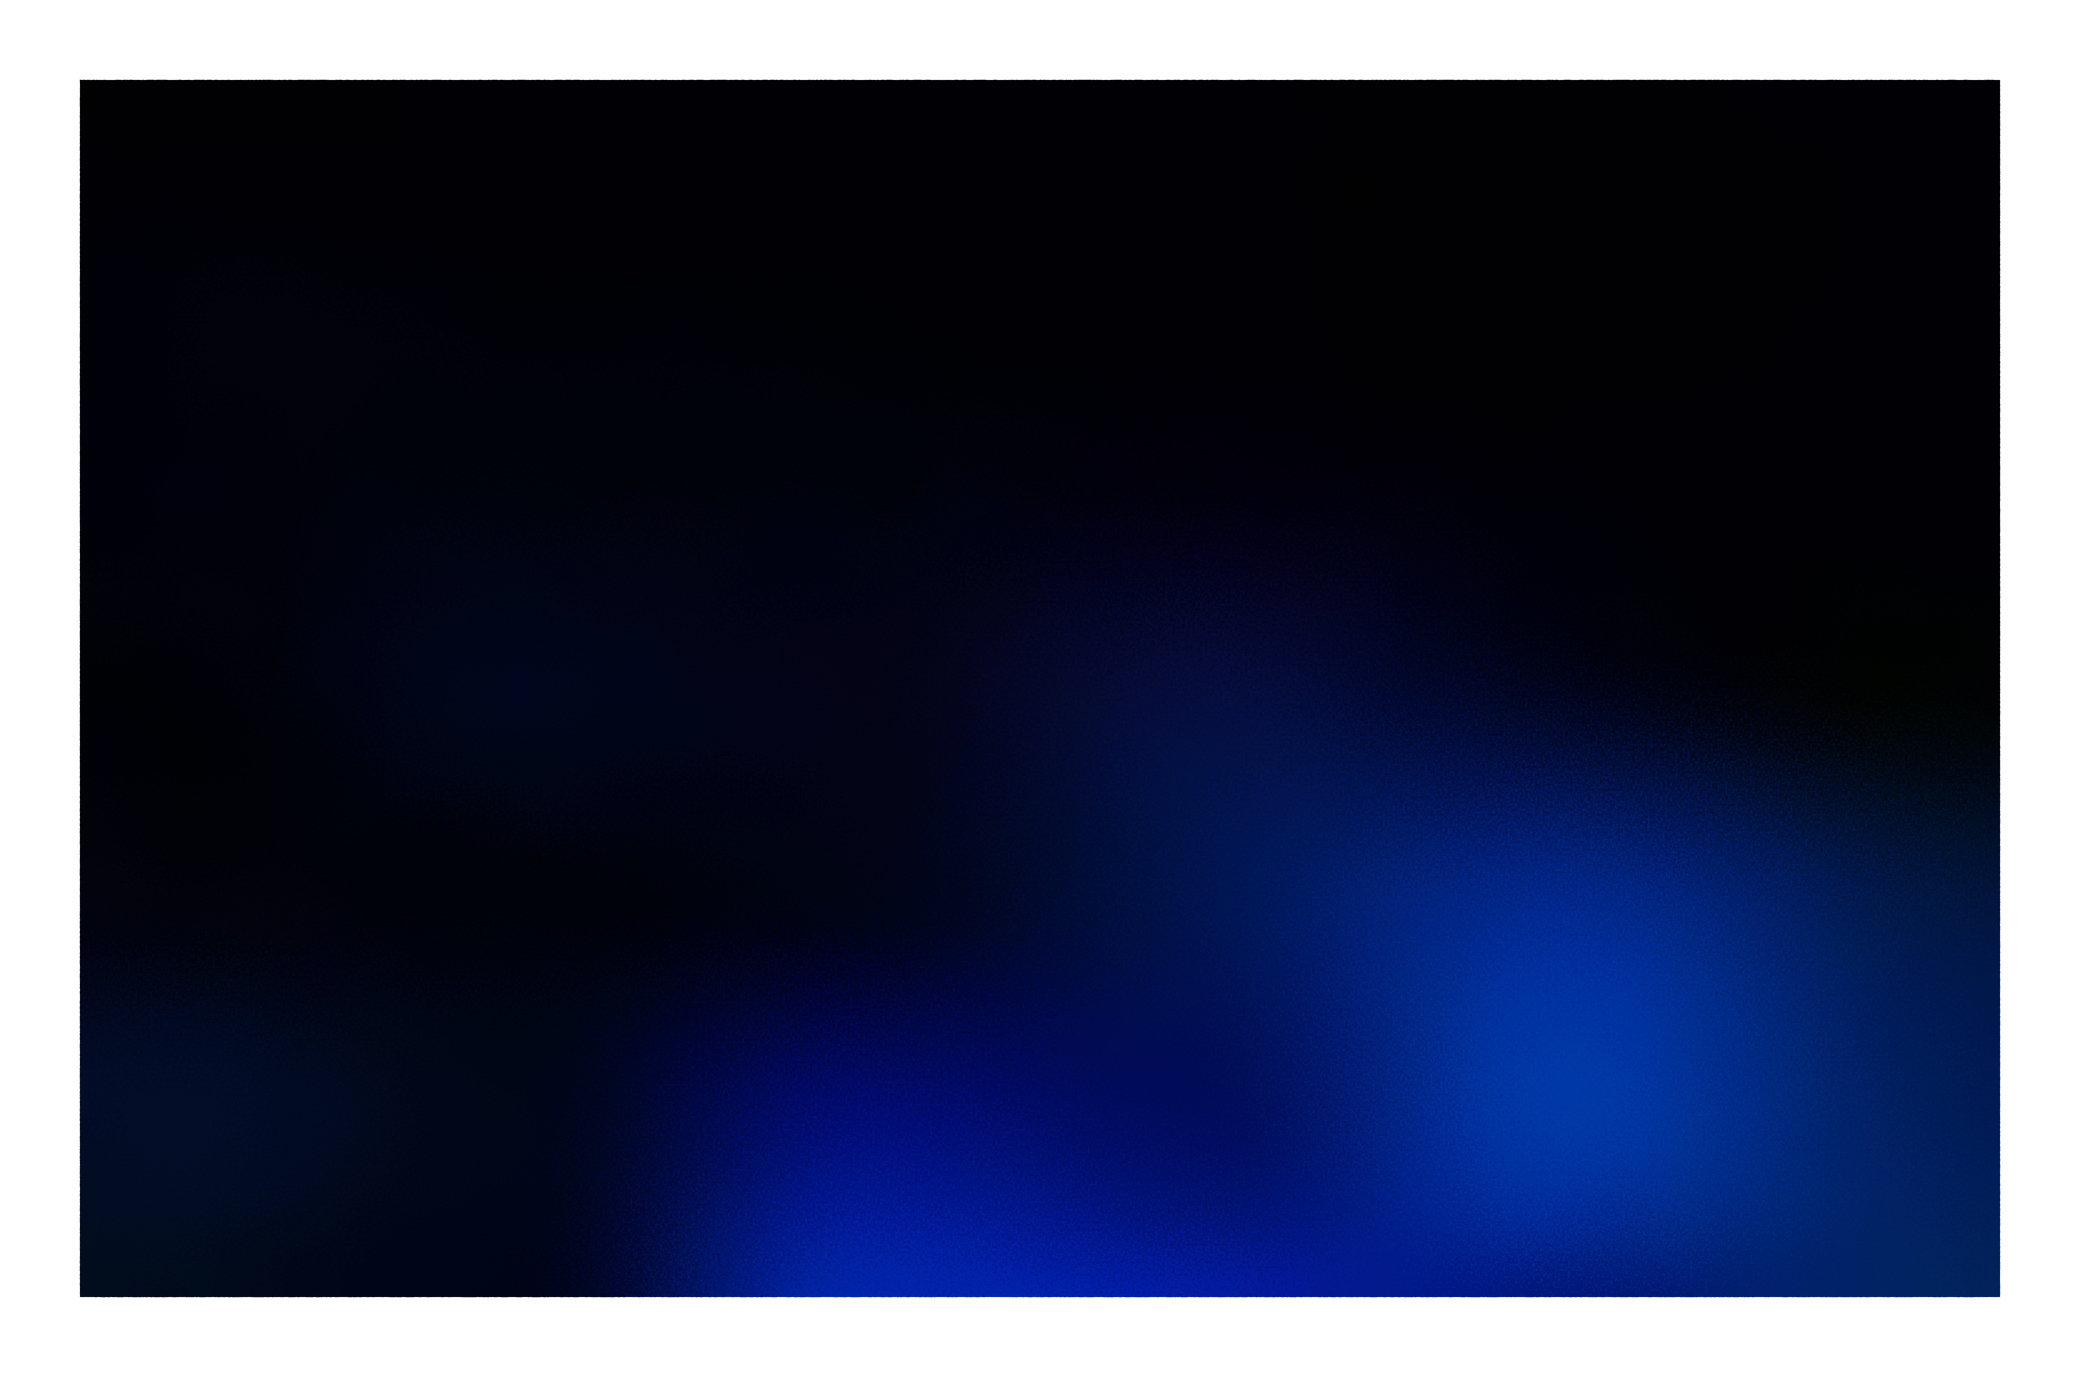
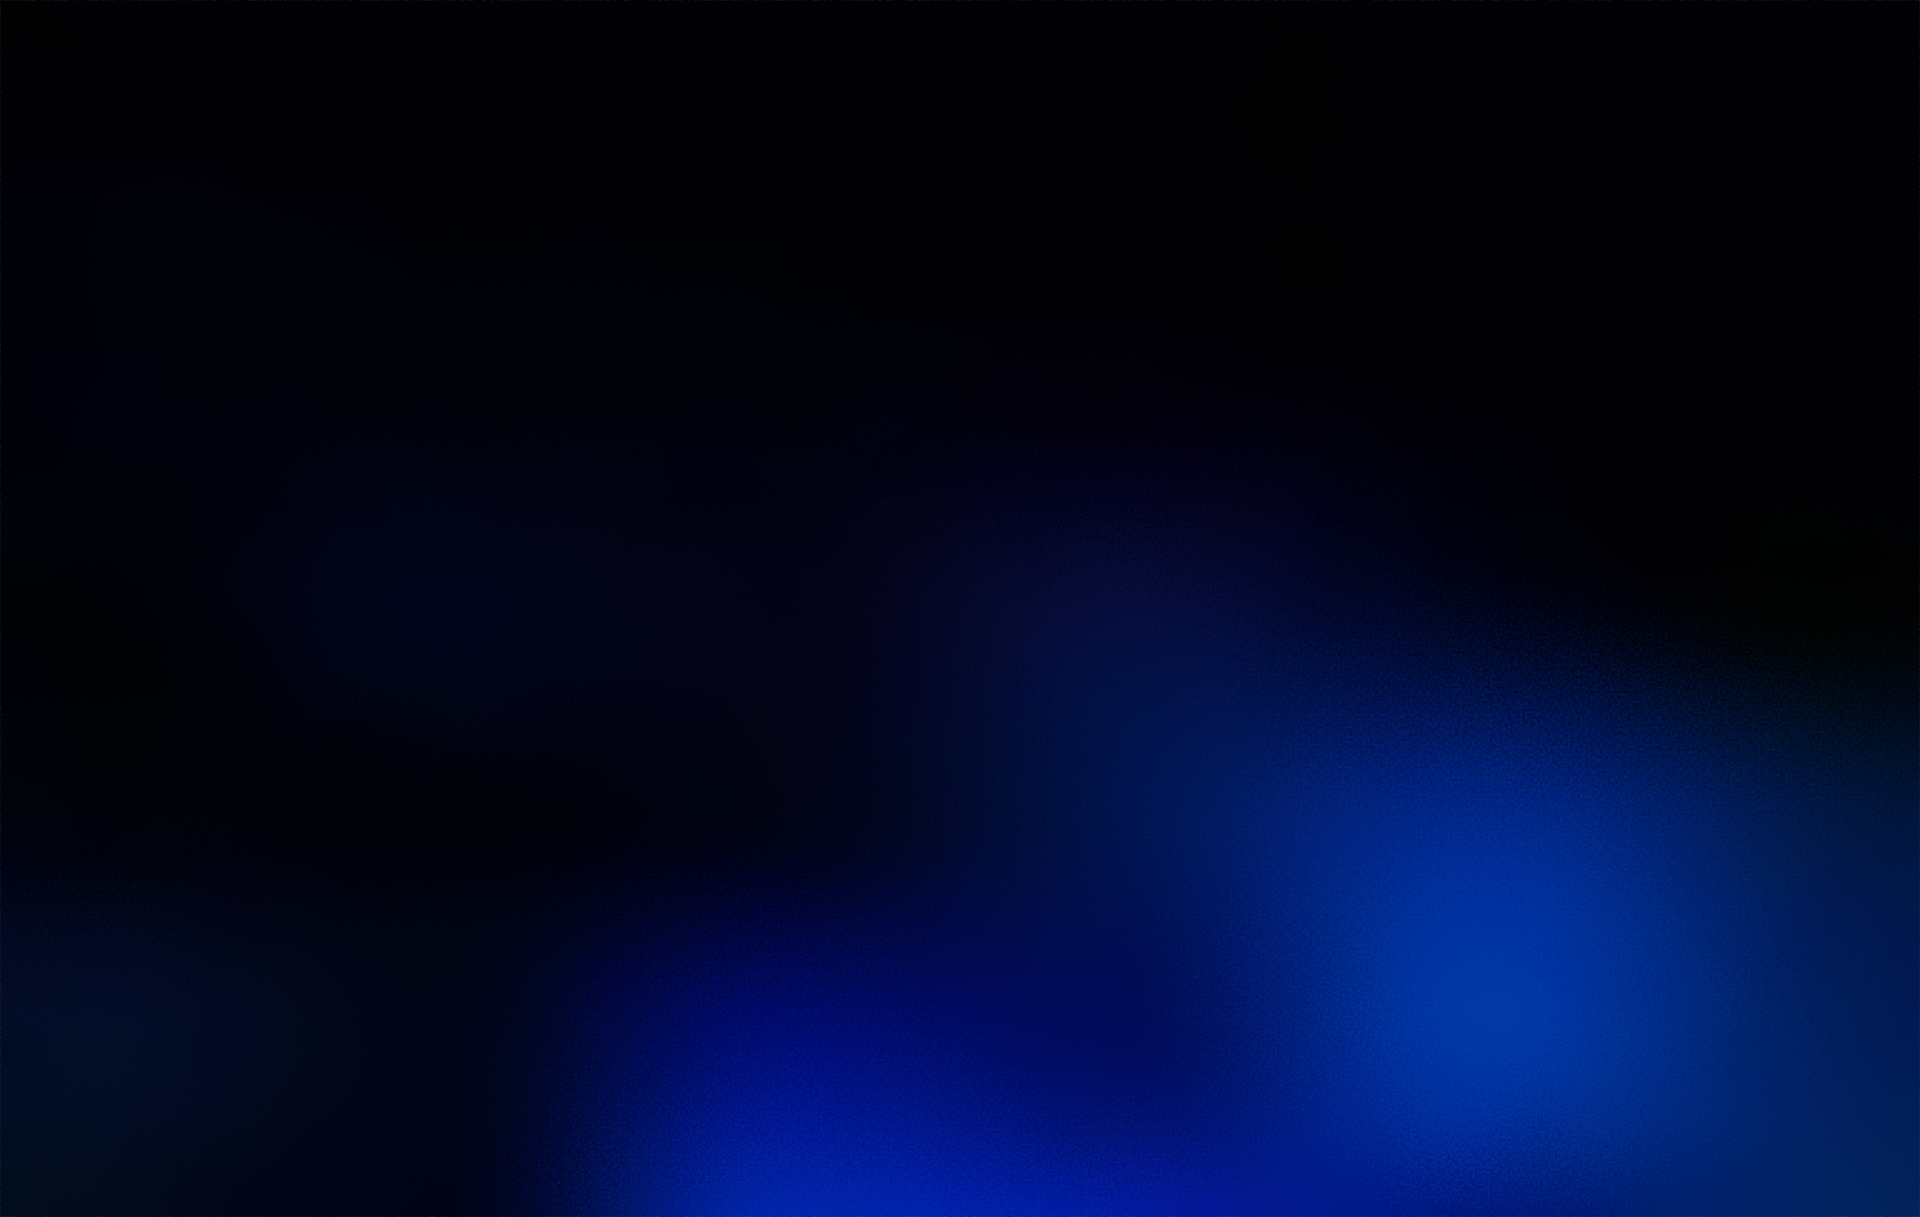
Add files via upload

Changed region(s): [[0.0, 0.0, 1.0, 1.0], [0.6875, 0.5933, 0.75, 0.6245]]

diff --git a/styles.css b/styles.css
@@ -250,7 +250,8 @@ nav ul li:hover .submenu {
   text-align: center;
   padding: 5rem 2rem 3rem 2rem;
   height: 100vh;
-  background-position: -80px -80px;
+  background-size: cover;
+  background-position: 100%;
 }
 .hero h1 {
   font-weight: 100;
@@ -845,7 +846,7 @@ video {
   .header { font-size: 1rem; }
   .logo img { width: 150px; }
 
-  .hero { padding: 4.5rem 2rem 3rem; background-position: center -60px; }
+  .hero { padding: 4.5rem 2rem 3rem;}
   .hero h1 { font-size: 2rem; line-height: 1.2; }
 
   .intro { padding: 3.5rem 2rem; }
@@ -931,7 +932,7 @@ video {
   .btn { margin-right: 0; padding: .45rem 1.2rem; }
   .more-btn { padding: .55rem 1.6rem; font-size: 1rem; }
 
-  .hero { gap: 2rem; padding: 3.6rem 1.2rem 2rem; background-position: center; }
+  .hero { gap: 2rem; padding: 3.6rem 1.2rem 2rem;}
   .hero h1 { font-size: 1.6rem; line-height: 1.25; }
 
   .intro { padding: 2rem 1.2rem; }
